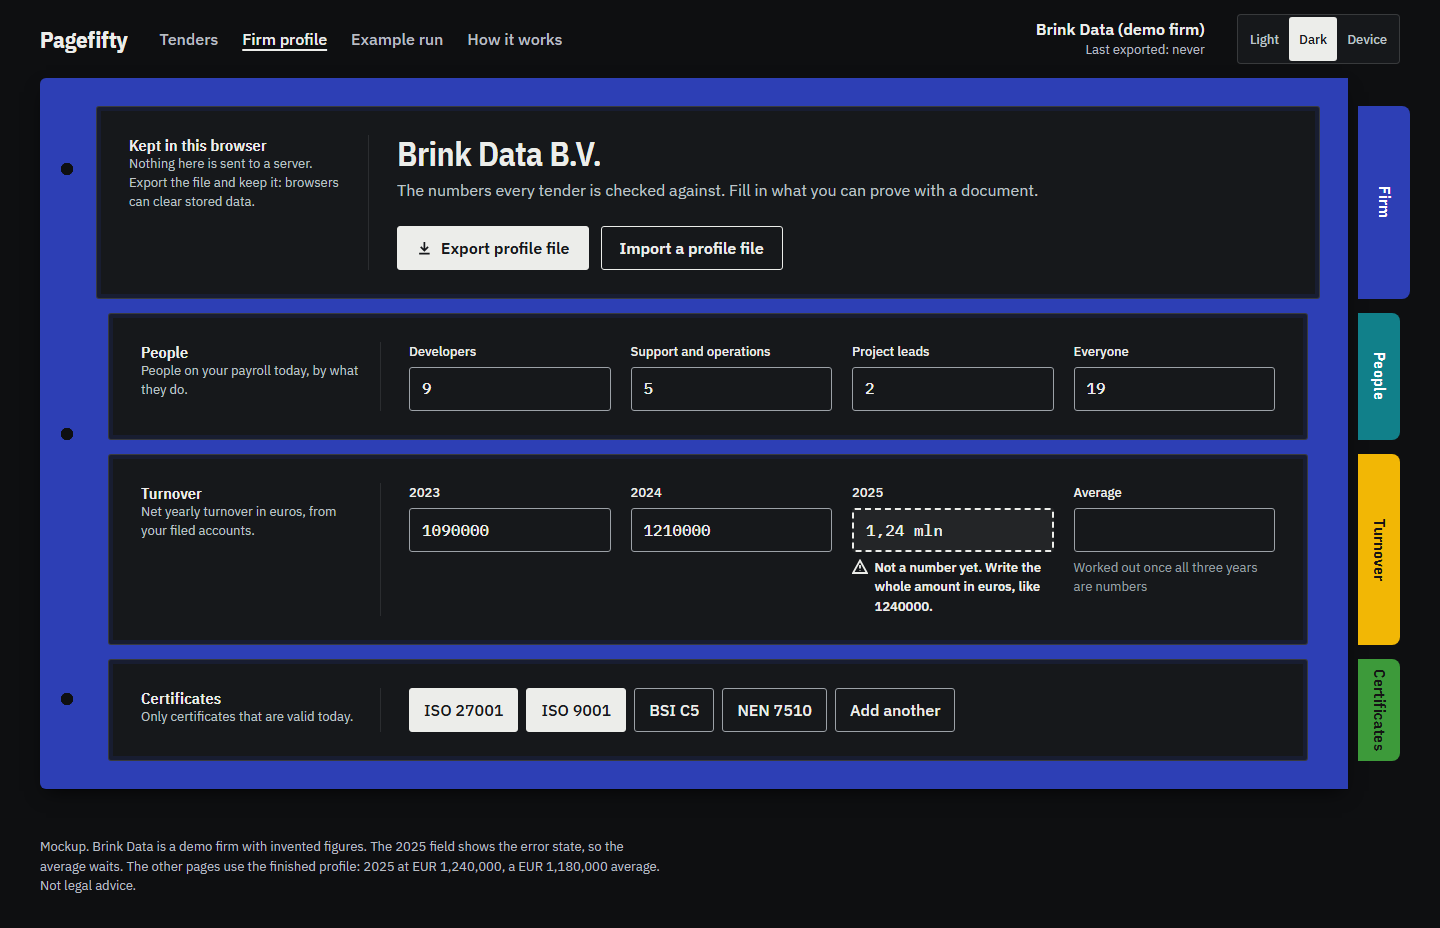
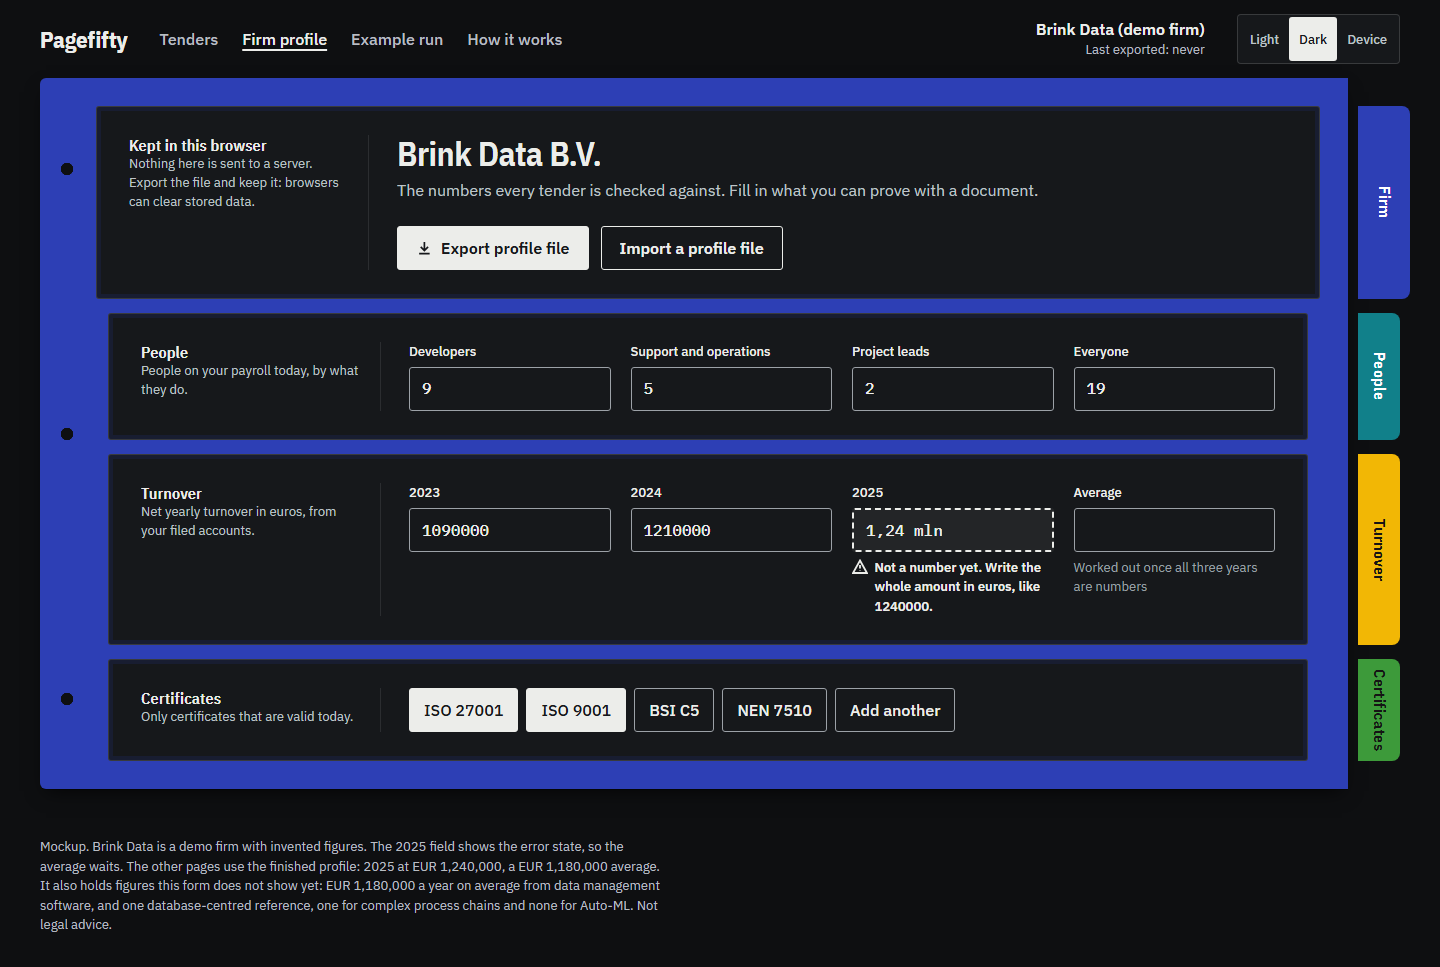
fix(design): show the demo profile's hidden figures in its note
The verdict and tenders pages compare against figures the profile
mockup never showed: EUR 1,180,000 a year from data management
software and the three reference counts. The profile's demo note now
names them, and its four mockups are recaptured in a fresh browser
(the other 16 reproduce byte for byte).

ART-DIRECTION.md's Partner needed rule now matches the verdict model:
a limit on reliance found in any document read blocks it, not only
one in the notice text, and a legal basis the model names no reliance
article for reads Ask first, not only an unknown one.

The theme property test gains an OS change while the page sits in the
back-forward cache, seen red on the script before 2de41bc. A theme.js
comment now says a pick followed from another tab also replaces the
choice, not only a click.

ritual step suggest-2

diff --git a/src/lib/design-theme.test.ts b/src/lib/design-theme.test.ts
@@ -284,6 +284,7 @@ describe('design mockup theme switch', () => {
 	const action = fc.oneof(
 		fc.record({ kind: fc.constant('click' as const), choice: fc.constantFrom(...CHOICES) }),
 		fc.record({ kind: fc.constant('os' as const), dark: fc.boolean() }),
+		fc.record({ kind: fc.constant('frozen' as const), dark: fc.boolean() }),
 		fc.record({
 			kind: fc.constant('tab' as const),
 			value: fc.constantFrom(null, 'light', 'dark', 'device', 'purple')
@@ -311,6 +312,12 @@ describe('design mockup theme switch', () => {
 			if (step.kind === 'os') {
 				osDark = step.dark;
 				page.setOs(step.dark);
+			}
+			// The OS changes while the page sits in the back-forward cache, then Back restores it.
+			if (step.kind === 'frozen') {
+				osDark = step.dark;
+				page.setOsWhileFrozen(step.dark);
+				page.restore();
 			}
 			if (step.kind === 'tab') page.otherTab(step.value);
 			if (step.kind === 'away' && !setup.storageThrows)

diff --git a/design/profile.html b/design/profile.html
@@ -175,7 +175,9 @@
 		<p class="demo-note">
 			Mockup. Brink Data is a demo firm with invented figures. The 2025 field shows the error state,
 			so the average waits. The other pages use the finished profile: 2025 at EUR 1,240,000, a EUR
-			1,180,000 average. Not legal advice.
+			1,180,000 average. It also holds figures this form does not show yet: EUR 1,180,000 a year on
+			average from data management software, and one database-centred reference, one for complex
+			process chains and none for Auto-ML. Not legal advice.
 		</p>
 	</body>
 </html>

diff --git a/design/assets/theme.js b/design/assets/theme.js
@@ -31,7 +31,8 @@
 	}
 
 	// The choice in force on this page view: a known ?theme= value first, then storage.
-	// A click replaces it, so a later OS change never undoes what the user just picked.
+	// A click, or a pick followed from another tab or page (follow below), replaces it, so a later
+	// OS change never undoes what the user picked.
 	let current = known(new URLSearchParams(location.search).get('theme')) || read();
 
 	// The stored value this page view last saw. A different one later means a pick was made in

diff --git a/design/ART-DIRECTION.md b/design/ART-DIRECTION.md
@@ -109,7 +109,7 @@ Every text pair clears 4.5:1.
   - **Clear:** read and checked.
   - **Half-hinged:** a rule a partner firm could meet, where another firm may lend capacity.
   - **Face-down:** a document not read yet, never GO.
-  - **Errata slip:** a separate punched vermilion strip filed beside the verdict word, carrying the rule the firm cannot meet on its own and its shortfall. Because Directive 2014/24/EU Article 63 lets a partner lend turnover, staff and references, such a miss usually reads Partner needed rather than a flat no-go (verified on legislation.gov.uk, 2026-09-16). Partner needed means a partner is necessary, not that one is enough. It applies only when the notice text sets no reserved task (Article 63(2)) or other limit on reliance for that criterion, and it names the conditions (the partner's commitment and exclusion declaration, the partner doing the work it lends experience, references or qualifications for, and the joint liability a buyer may require for turnover). When the notice leaves reliance details to documents not read yet, the verdict stays Partner needed and names that as an open item, because reading more can only make a verdict worse. An unknown legal basis reads Ask first. The words the screen shows for this state are not decided yet. "Partner needed" is a working label.
+  - **Errata slip:** a separate punched vermilion strip filed beside the verdict word, carrying the rule the firm cannot meet on its own and its shortfall. Because Directive 2014/24/EU Article 63 lets a partner lend turnover, staff and references, such a miss usually reads Partner needed rather than a flat no-go (verified on legislation.gov.uk, 2026-09-16). Partner needed means a partner is necessary, not that one is enough. It applies only when nothing read, in the notice or a document, sets a reserved task (Article 63(2)) or other limit on reliance for that criterion, and it names the conditions (the partner's commitment and exclusion declaration, the partner doing the work it lends experience, references or qualifications for, and the joint liability a buyer may require for turnover). When the notice leaves reliance details to documents not read yet, the verdict stays Partner needed and names that as an open item, because reading more can only make a verdict worse. A legal basis the verdict model names no reliance article for, or an unknown one, reads Ask first. The words the screen shows for this state are not decided yet. "Partner needed" is a working label.
 - **The addendum slip** (violet tag) holds a drafted question to the buyer under Article 58(3).
 - **The verdict page's reading order:**
   1. Buyer, deadline and notice in the margin
